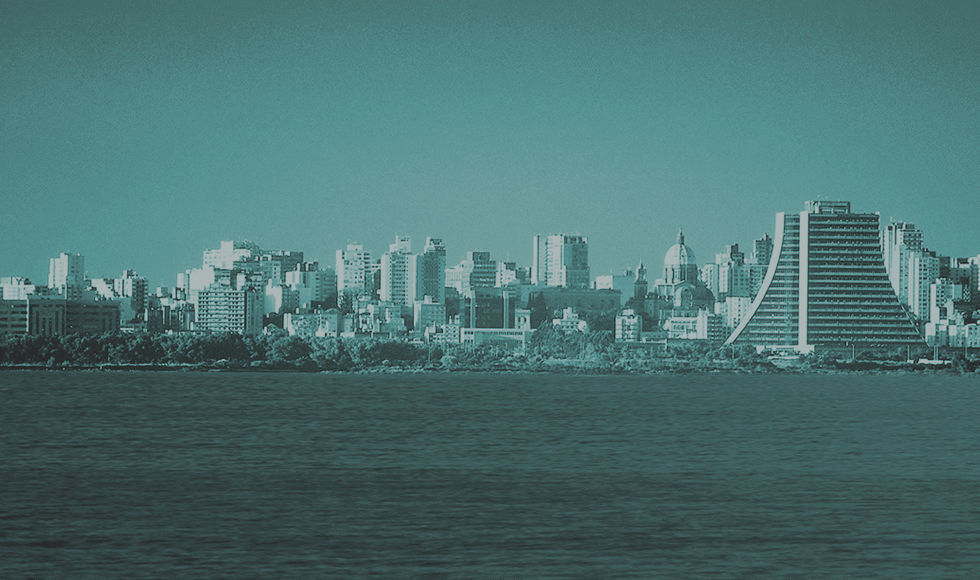
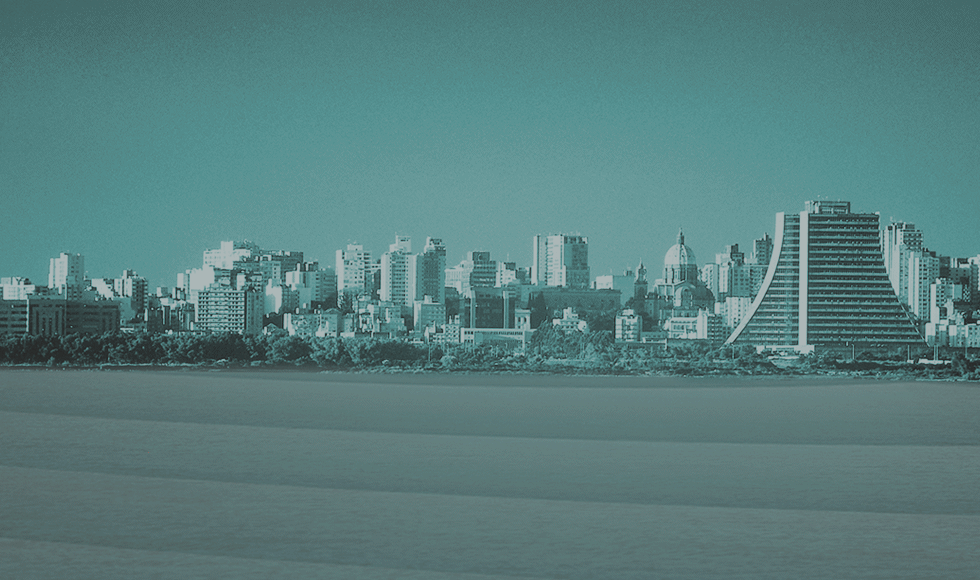
yeah

diff --git a/scripts/base.js b/scripts/base.js
@@ -31,7 +31,7 @@
       width: stage.width,
       height: stage.height - 371,
       x: 0,
-      y: 371
+      y: 380
     };
     imageData = ctx.getImageData(drawArea.x, drawArea.y, drawArea.width, drawArea.height);
     pixels = imageData.data;
@@ -47,6 +47,7 @@
       }
       mapped[i] = colorsKeyed[rgb];
     }
+    colors = [[119, 152, 152], [80, 102, 108], [100, 132, 137], [70, 96, 96], [119, 152, 162], [70, 96, 96]];
     for (i = 0, _len = colors.length; i < _len; i++) {
       color = colors[i];
       colors[i] = color.map(function(c) {
@@ -73,7 +74,8 @@
       }
       return null;
     };
-    smoothColors(3);
+    smoothColors(4);
+    colors = colors.reverse();
     lastColor = colors.length;
     frames = [];
     for (i = 0, _ref = colors.length; 0 <= _ref ? i < _ref : i > _ref; 0 <= _ref ? i++ : i--) {
@@ -89,7 +91,7 @@
       }
       frames.push(c);
     }
-    FPS = 30;
+    FPS = 24;
     currentFrame = 0;
     nframes = frames.length;
     draw = function() {

diff --git a/index.html b/index.html
@@ -3,9 +3,12 @@
 <head>
 	<meta charset="UTF-8" />
 	<title></title>
+	<link rel="stylesheet" href="styles/base.css" />
 </head>
 <body>
-	<canvas id="stage"></canvas>
+	<div id="image">
+		<canvas id="stage"></canvas>
+	</div>
 	<script src="scripts/base.js"></script>
 </body>
 </html>

diff --git a/styles/base.less b/styles/base.less
@@ -1,0 +1,9 @@
+#image {
+	background: url(../images/poa-bg.png) no-repeat center center;
+	width: 980px;
+	height: 580px;
+	canvas {
+		display:block;
+		opacity: .17;
+	}
+}
